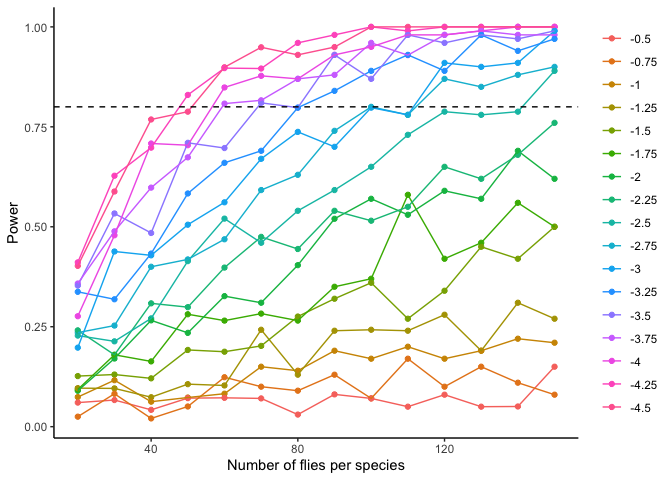
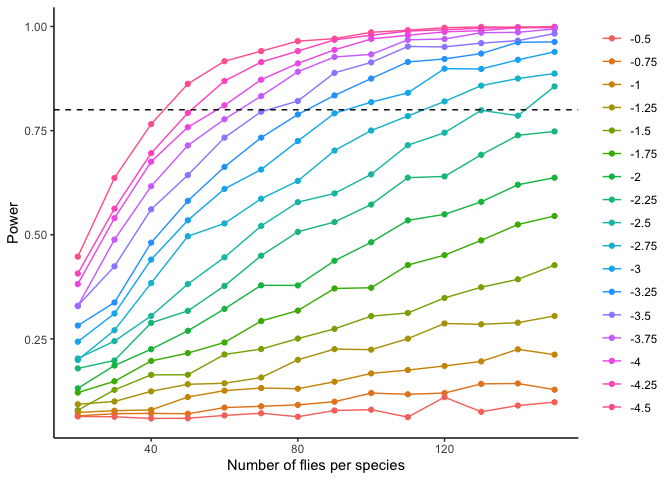
update the severity testing script

diff --git a/04-project-examples/seaweed-flies/01-plan/01-pre-registration/01-design.md b/04-project-examples/seaweed-flies/01-plan/01-pre-registration/01-design.md
@@ -114,9 +114,7 @@ $$
 P_{ij} \sim Normal(\mu_{ij}, \sigma_{residual})
 $$ $$
 \mu_{ij} = \alpha_{j} + \beta_1\text{S}_{i} + \beta_2\text{W}_{i} + \beta_3\text{S}_{i}\text{W}_{i}
-$$
-
-$$
+$$ $$
 \alpha_{j} \sim Normal(\bar{\alpha}, \tau_{\bar{\alpha}}) \text{, for experiment j = 1,} \dots \text{,J}
 $$
 
@@ -293,18 +291,18 @@ summary(lm_weight)
 
     Residuals:
         Min      1Q  Median      3Q     Max 
-    -3.4008 -0.6674  0.0317  0.6500  3.1043 
+    -3.0319 -0.7003  0.0138  0.6604  3.5808 
 
     Coefficients:
                 Estimate Std. Error t value Pr(>|t|)    
-    (Intercept)  8.56344    0.03163   270.8   <2e-16 ***
-    S           -3.54249    0.04473   -79.2   <2e-16 ***
+    (Intercept)  8.44588    0.03153  267.85   <2e-16 ***
+    S           -3.45008    0.04459  -77.37   <2e-16 ***
     ---
     Signif. codes:  0 '***' 0.001 '**' 0.01 '*' 0.05 '.' 0.1 ' ' 1
 
-    Residual standard error: 1 on 1998 degrees of freedom
-    Multiple R-squared:  0.7584,    Adjusted R-squared:  0.7583 
-    F-statistic:  6273 on 1 and 1998 DF,  p-value: < 2.2e-16
+    Residual standard error: 0.9971 on 1998 degrees of freedom
+    Multiple R-squared:  0.7497,    Adjusted R-squared:  0.7496 
+    F-statistic:  5986 on 1 and 1998 DF,  p-value: < 2.2e-16
 
 Now that we have the *Species*, *Experiment* and *Weight* variables (all
 the parents of *SCP*), we can simulate the *SCP* values. As mentioned
@@ -394,13 +392,9 @@ from above):
 
 $$
 P_{ij} \sim Normal(\mu_{ij}, \sigma_{residual})
-$$
-
-$$
+$$ $$
 \mu_{ij} = \alpha_{j} + \beta_1\text{S}_{i} + \beta_2\text{W}_{i} + \beta_3\text{S}_{i}\text{W}_{i}
-$$
-
-$$
+$$ $$
 \alpha_{j} \sim Normal(\bar{\alpha}, \tau_{\bar{\alpha}}) \text{, for experiment j = 1,} \dots \text{,J}
 $$ Now, we will simulate the *SCP* values using these data ($P_{ij}$):
 
@@ -429,30 +423,30 @@ summary(lmm_P)
     Linear mixed model fit by REML ['lmerMod']
     Formula: P ~ S + W + S:W + (1 | E)
 
-    REML criterion at convergence: 5789
+    REML criterion at convergence: 5790
 
     Scaled residuals: 
          Min       1Q   Median       3Q      Max 
-    -3.11461 -0.66753  0.00372  0.66770  2.86967 
+    -2.99453 -0.65867 -0.01795  0.69483  3.06771 
 
     Random effects:
      Groups   Name        Variance Std.Dev.
-     E        (Intercept) 0.3533   0.5944  
-     Residual             0.9819   0.9909  
+     E        (Intercept) 0.2227   0.4719  
+     Residual             0.9929   0.9964  
     Number of obs: 2000, groups:  E, 50
 
     Fixed effects:
                 Estimate Std. Error t value
-    (Intercept) -7.30387    0.29301 -24.927
-    S           -2.72368    0.32296  -8.433
-    W           -0.22736    0.03258  -6.978
-    S:W         -0.01741    0.04502  -0.387
+    (Intercept) -7.27077    0.26947 -26.982
+    S           -2.56143    0.31054  -8.248
+    W           -0.22515    0.03069  -7.336
+    S:W         -0.04680    0.04523  -1.035
 
     Correlation of Fixed Effects:
         (Intr) S      W     
-    S   -0.834              
-    W   -0.952  0.865       
-    S:W  0.691 -0.959 -0.726
+    S   -0.811              
+    W   -0.962  0.832       
+    S:W  0.648 -0.957 -0.675
 
 Inspecting these parameter values, we can see that they match closely
 with the parameter values that we set in our simulation. This means that
@@ -524,7 +518,7 @@ of each species across 10 experiments. Moreover, we set the alpha value
 
 ``` r
 # how many replicate simulations?
-n_sim <- 10
+n_sim <- 1000
 
 # set the parameters: beta_1_H0 and beta_1_HA (i.e. null and alternative hypotheses)
 par_df <- dplyr::tibble(alpha_rej = 0.05, 
@@ -576,7 +570,23 @@ for (i in seq_len(n_sim)) {
     }
   
 }
-  
+```
+
+    boundary (singular) fit: see help('isSingular')
+    boundary (singular) fit: see help('isSingular')
+    boundary (singular) fit: see help('isSingular')
+    boundary (singular) fit: see help('isSingular')
+    boundary (singular) fit: see help('isSingular')
+    boundary (singular) fit: see help('isSingular')
+    boundary (singular) fit: see help('isSingular')
+    boundary (singular) fit: see help('isSingular')
+    boundary (singular) fit: see help('isSingular')
+    boundary (singular) fit: see help('isSingular')
+    boundary (singular) fit: see help('isSingular')
+    boundary (singular) fit: see help('isSingular')
+    boundary (singular) fit: see help('isSingular')
+
+``` r
 # simulate under H0
 for (i in seq_len(n_sim)) {
 
@@ -614,7 +624,17 @@ for (i in seq_len(n_sim)) {
     }
   
 }
+```
 
+    boundary (singular) fit: see help('isSingular')
+    boundary (singular) fit: see help('isSingular')
+    boundary (singular) fit: see help('isSingular')
+    boundary (singular) fit: see help('isSingular')
+    boundary (singular) fit: see help('isSingular')
+    boundary (singular) fit: see help('isSingular')
+    boundary (singular) fit: see help('isSingular')
+
+``` r
 # calculate the type I error rate across simulations
 type_I_error_rate <- sum(type_I_errors, na.rm = TRUE) / length(na.omit(type_I_errors))
 
@@ -631,9 +651,9 @@ cat(paste0("\n", " Type I error: ", round(type_I_error_rate, 2), "\n"),
 ```
 
 
-     Type I error: 0
-     Type II error: 0.2
-     Power: 0.8
+     Type I error: 0.06
+     Type II error: 0.36
+     Power: 0.64
 
 Based on these simulations, the Type I error rate (i.e. chance of
 rejecting the null hypothesis when it is true) is around 0.04. We expect
@@ -769,7 +789,7 @@ for (i in seq_along(power_list)) {
   input_pars <- par_grid[i, ]
   
   # run the simulation
-  power_sim_data <- run_power_analysis(n_sim = 100, alpha_rej = 0.05, 
+  power_sim_data <- run_power_analysis(n_sim = 1000, alpha_rej = 0.05, 
                                        beta_1_H0 = 0, beta_1_HA = input_pars$beta_1_HA_par,
                                        n_f = input_pars$n_flies_par, n_p = input_pars$n_flies_par, 
                                        n_exp = input_pars$n_exp_par, 
@@ -789,7 +809,65 @@ for (i in seq_along(power_list)) {
                                     power = power_sim_data$power)
   
 }
+```
 
+    Warning in checkConv(attr(opt, "derivs"), opt$par, ctrl = control$checkConv, :
+    Model failed to converge with max|grad| = 0.00219571 (tol = 0.002, component 1)
+
+    Warning in checkConv(attr(opt, "derivs"), opt$par, ctrl = control$checkConv, :
+    Model failed to converge with max|grad| = 0.00235468 (tol = 0.002, component 1)
+
+    Warning: Model failed to converge with 1 negative eigenvalue: -1.3e+00
+
+    Warning in checkConv(attr(opt, "derivs"), opt$par, ctrl = control$checkConv, :
+    Model failed to converge with max|grad| = 0.00206155 (tol = 0.002, component 1)
+
+    Warning in checkConv(attr(opt, "derivs"), opt$par, ctrl = control$checkConv, :
+    Model failed to converge with max|grad| = 0.00236447 (tol = 0.002, component 1)
+
+    Warning in checkConv(attr(opt, "derivs"), opt$par, ctrl = control$checkConv, :
+    Model failed to converge with max|grad| = 0.00322668 (tol = 0.002, component 1)
+
+    Warning in checkConv(attr(opt, "derivs"), opt$par, ctrl = control$checkConv, :
+    Model failed to converge with max|grad| = 0.00222941 (tol = 0.002, component 1)
+
+    Warning: Model failed to converge with 1 negative eigenvalue: -1.6e-01
+
+    Warning in checkConv(attr(opt, "derivs"), opt$par, ctrl = control$checkConv, :
+    Model failed to converge with max|grad| = 0.00284506 (tol = 0.002, component 1)
+
+    Warning in checkConv(attr(opt, "derivs"), opt$par, ctrl = control$checkConv, :
+    Model failed to converge with max|grad| = 0.00228369 (tol = 0.002, component 1)
+
+    Warning: Model failed to converge with 1 negative eigenvalue: -1.4e-01
+
+    Warning in checkConv(attr(opt, "derivs"), opt$par, ctrl = control$checkConv, :
+    Model failed to converge with max|grad| = 0.00266263 (tol = 0.002, component 1)
+
+    Warning in checkConv(attr(opt, "derivs"), opt$par, ctrl = control$checkConv, :
+    Model failed to converge with max|grad| = 0.00206577 (tol = 0.002, component 1)
+
+    Warning in checkConv(attr(opt, "derivs"), opt$par, ctrl = control$checkConv, :
+    Model failed to converge with max|grad| = 0.0026497 (tol = 0.002, component 1)
+
+    Warning: Model failed to converge with 1 negative eigenvalue: -8.5e-02
+
+    Warning: Model failed to converge with 1 negative eigenvalue: -1.3e-02
+
+    Warning in checkConv(attr(opt, "derivs"), opt$par, ctrl = control$checkConv, :
+    Model failed to converge with max|grad| = 0.00232928 (tol = 0.002, component 1)
+
+    Warning in checkConv(attr(opt, "derivs"), opt$par, ctrl = control$checkConv, :
+    Model failed to converge with max|grad| = 0.00231426 (tol = 0.002, component 1)
+
+    Warning: Model failed to converge with 1 negative eigenvalue: -1.4e-01
+
+    Warning in checkConv(attr(opt, "derivs"), opt$par, ctrl = control$checkConv, :
+    Model failed to converge with max|grad| = 0.00287963 (tol = 0.002, component 1)
+
+    Warning: Model failed to converge with 1 negative eigenvalue: -3.8e-01
+
+``` r
 # bind into a data.frame
 power_data <- dplyr::bind_rows(power_list)
 ```
